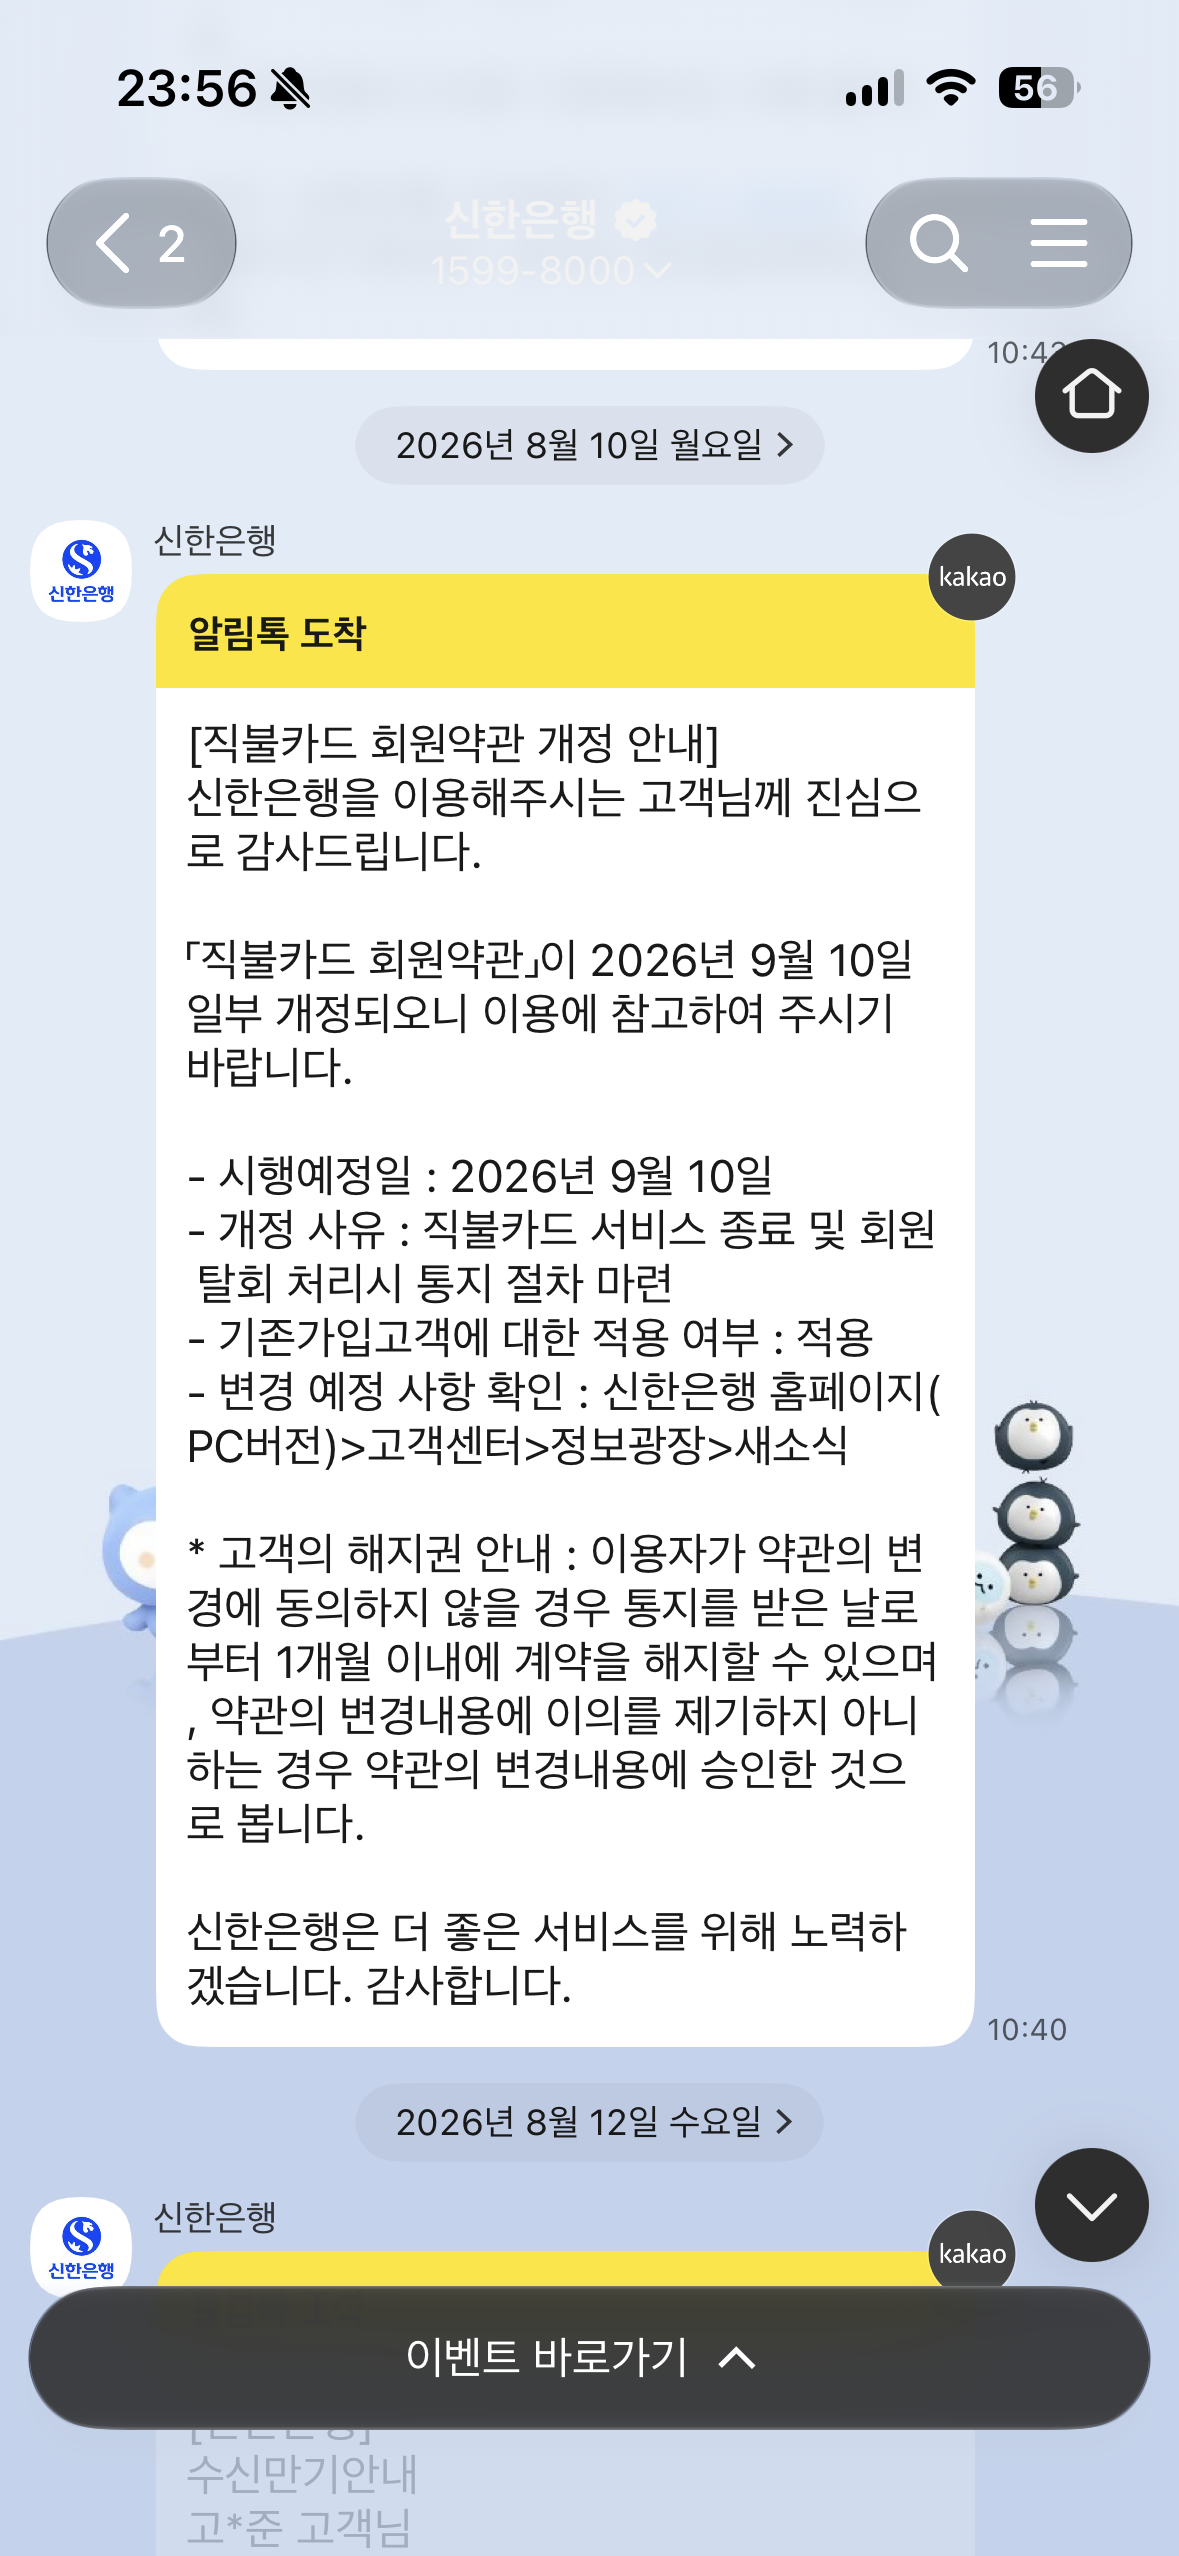
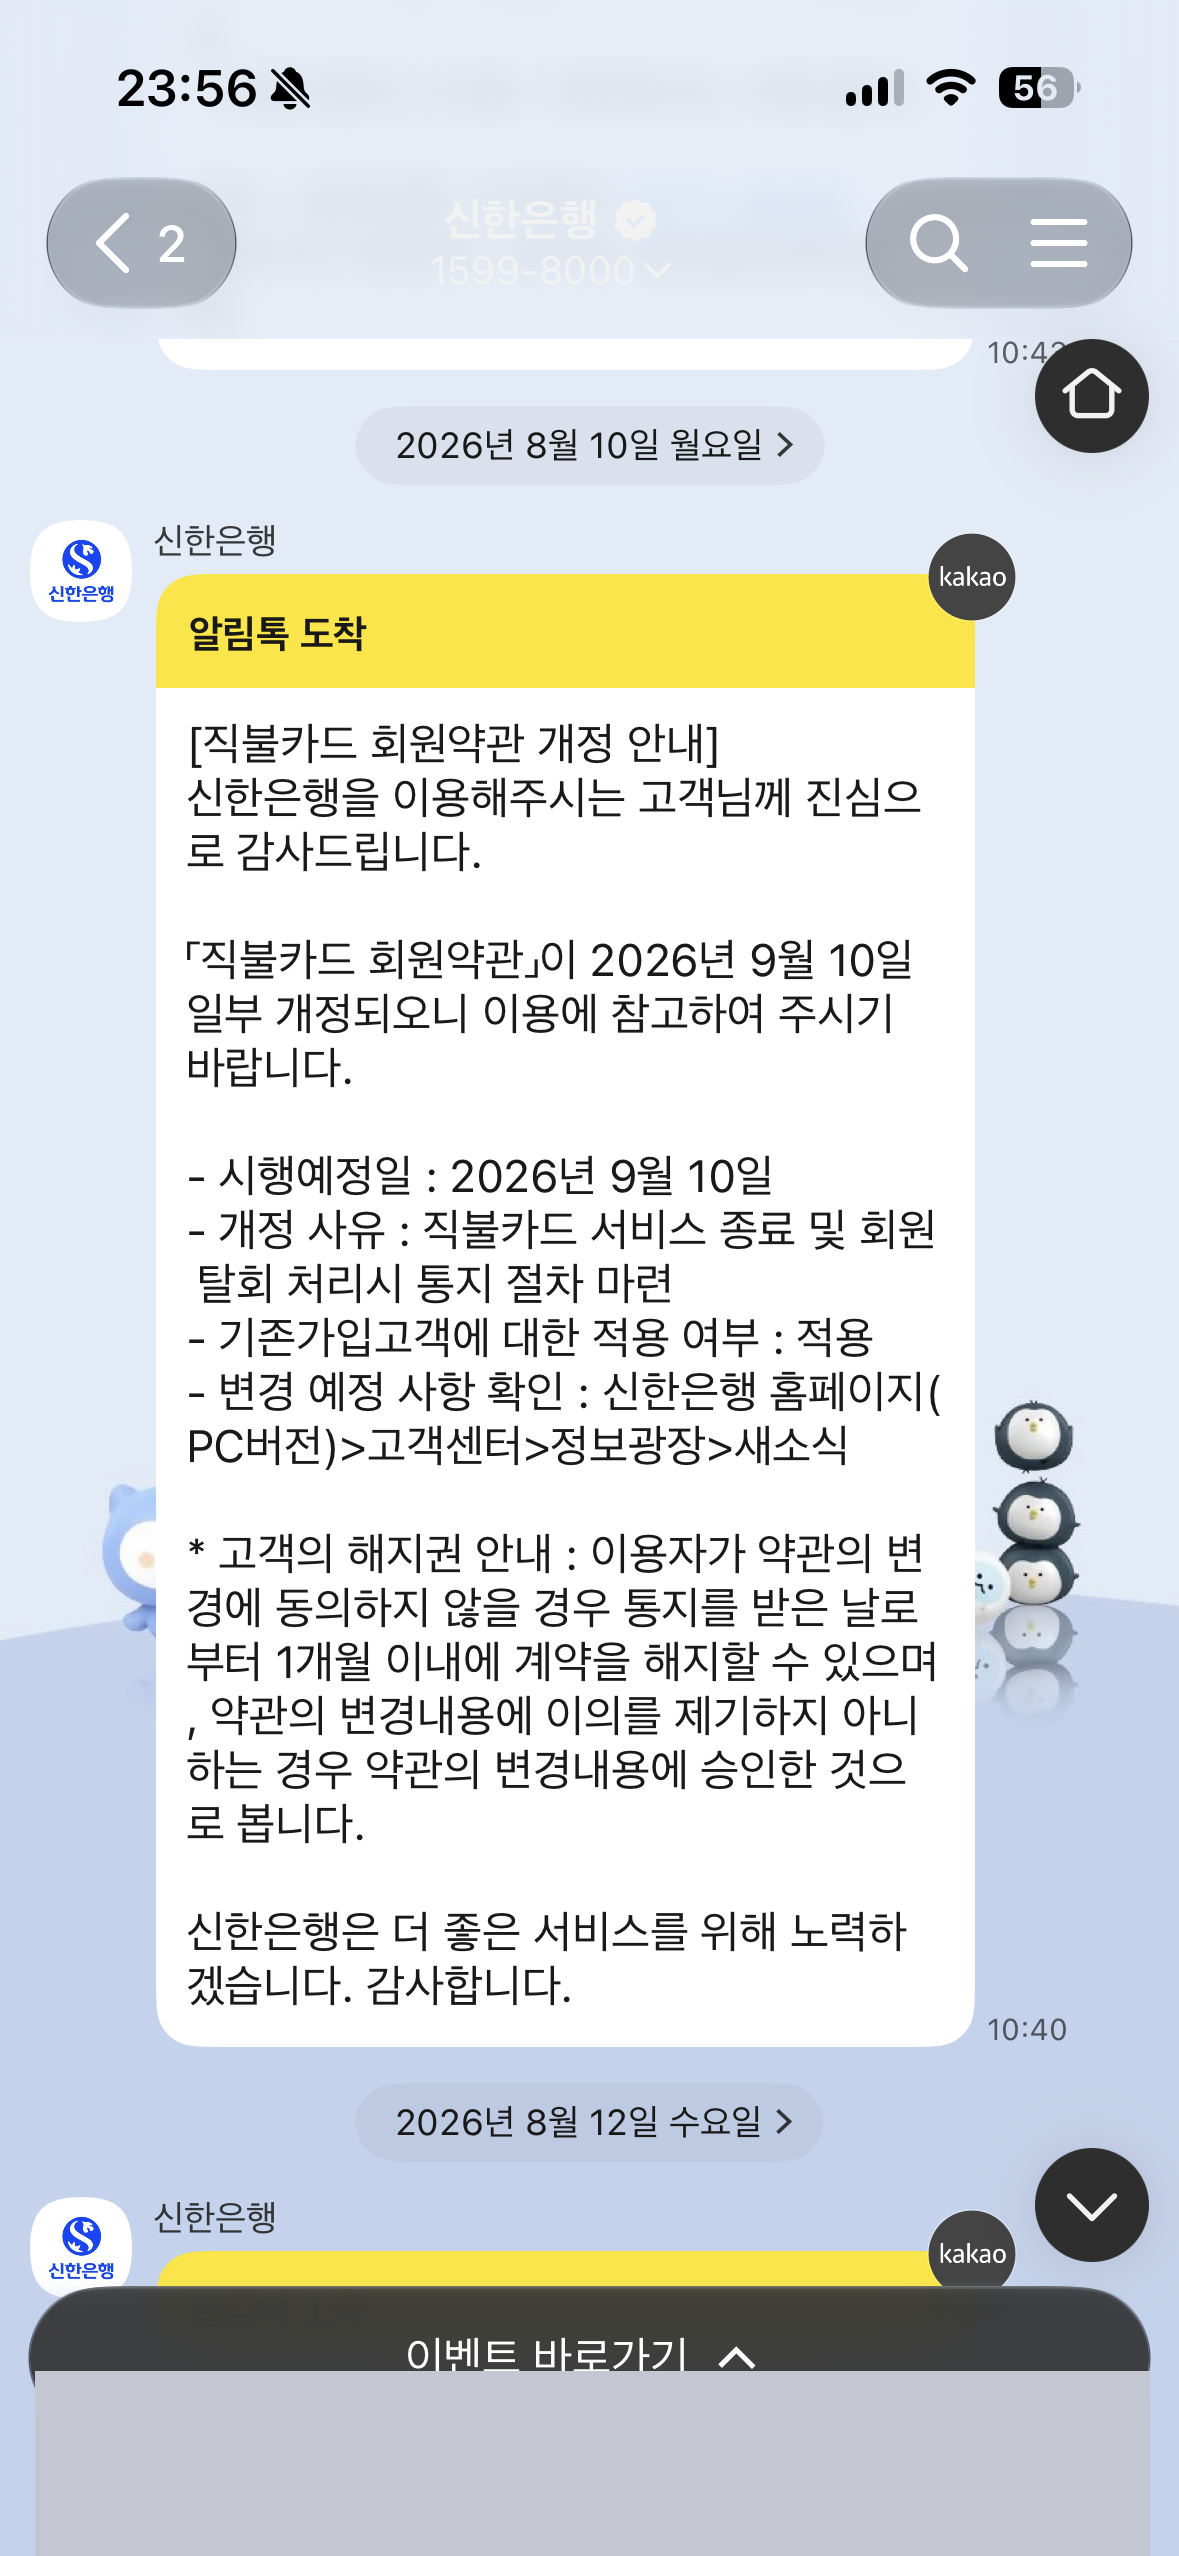
캡처 개인정보 점검 완료 + 카톡 하단 미리보기 마스킹
- 00-카카오톡_신한은행톡방: 하단 미리보기 영역(수신만기안내·고객명) 마스킹
- 전 캡처 22장 점검 — 01~06(16장)·07(3장)은 개인정보 없음 확인
- 04·06의 타사 실명 로고는 AS-IS 기록이라 유지, 시안·발표는 가명만 쓰도록 인벤토리에 명시

Changed region(s): [[0.0305, 0.9272, 0.9771, 1.0]]

diff --git a/01_as-is/screen-inventory.md b/01_as-is/screen-inventory.md
@@ -1,5 +1,8 @@
 # AS-IS 화면 인벤토리 (보험 탭)
 
+> **개인정보 점검 (2026-08-18 완료)** — 전 캡처 22장 확인. 마스킹한 것: `00_메인홈`(이름·잔액·카드 이용금액) · `00-슈퍼쏠알림`(금액·이름·계좌번호) · `00-카카오톡_신한은행톡방`(하단 미리보기). **01~06 16장과 07 3장은 개인정보 없음** — 상품 목록·카테고리·상세 화면뿐. 원본은 레포 밖에 백업.
+> ⚠ 04·06 캡처에는 **타사 실명 로고**(하나생명·라이나생명·ABL·DB생명·흥국생명·KB손해보험)가 있다. AS-IS 기록이라 그대로 두지만, **시안·발표 이미지에는 가명(A생명~F손해보험)만 쓴다** (mock-data §0).
+>
 > 2026-08-17 캡처 16장 분류 — 사용자 확인 완료. 기기: iPhone (1179×2556 = 393×852pt @3x). 범위 A+B. AS-IS 와이어프레임 Figma 노드: `figma-links.md` 참고 (01→23:58, 02→24:143, 02-1→25:307, 03→25:403, 03-1→26:526, 04→26:626, 05→27:680, 06→27:729).
 
 ## 핵심 발견: "보험"은 진입점이 2개
@@ -12,7 +15,7 @@
 
 | # | 화면 | 파일 (원본) | 구조 요약 | 주요 컴포넌트 | 관찰 메모 (가설, R-xx는 problems.md) |
 |---|---|---|---|---|---|
-| 00-K | **카카오톡 신한은행 알림톡방** (형태 참고용) | `00-카카오톡_신한은행톡방.PNG` | 상태바 → pill 헤더(뒤로+안읽음 수 / 채널명+대표번호 / 검색+메뉴) → 날짜 구분 pill → 프로필 원형 + 발신자명 + **노란 "알림톡 도착" 바가 얹힌 버블** + kakao 뱃지 → 버블 우하단 시각 → 하단 "이벤트 바로가기" pill | 알림톡 버블(상단 바 + 본문), pill 헤더, 날짜 구분 pill | **보험 화면이 아니라 알림톡 형태 레퍼런스.** S5-B가 이 구조를 따름. 와이어프레임은 회색조라 노란 바를 회색으로 대체 |
+| 00-K | **카카오톡 신한은행 알림톡방** (형태 참고용) | `00-카카오톡_신한은행톡방.PNG` (하단 미리보기 영역 마스킹 완료) | 상태바 → pill 헤더(뒤로+안읽음 수 / 채널명+대표번호 / 검색+메뉴) → 날짜 구분 pill → 프로필 원형 + 발신자명 + **노란 "알림톡 도착" 바가 얹힌 버블** + kakao 뱃지 → 버블 우하단 시각 → 하단 "이벤트 바로가기" pill | 알림톡 버블(상단 바 + 본문), pill 헤더, 날짜 구분 pill | **보험 화면이 아니라 알림톡 형태 레퍼런스.** S5-B가 이 구조를 따름. 와이어프레임은 회색조라 노란 바를 회색으로 대체 |
 | 00-N | **잠금화면 슈퍼SOL 푸시 알림** (형태 참고용) | `00-슈퍼쏠알림.PNG` (iPhone 15 Pro · iOS 27, 개인정보 마스킹 완료) | 통신사 상태바 → 날짜 "8월 17일 (월)" → 큰 시계 → **알림 센터** 라벨 + X → 알림 카드(앱 아이콘 좌측 + 제목 + 본문 2줄 + 우상단 "N시간 전" + 우측 원형 액션) → 손전등·카메라 원형 버튼 → 홈 인디케이터 | 잠금화면 알림 카드(r24), 원형 유틸 버튼 | **보험 화면이 아니라 알림 형태 레퍼런스.** S5-C/S5-D 푸시 시안이 이 구조를 따름 |
 | 00 | **메인 홈 (앱 켜면 나오는 첫 화면)** | `00_메인홈.PNG` (개인정보 마스킹 완료) | 상태바 → 헤더(프로필+이름 / 우측 아이콘 4) → 계좌 카드(잔액·[이체]·만기 안내 배너) → 카드 카드(K-패스 체크·이용금액·인증서 로그인) → 땡겨요 카드(프로모션·쿠폰바로받기·이벤트/쿠폰/포인트) → 이벤트 카드(올영 상품권, 탭바에 가림) → **플로팅 하단 탭바(홈·금융·상품·혜택·주식)** | 프로필 헤더, 라운드 카드(r20), 인라인 CTA 버튼, 회색 배너, 3분할 링크, 플로팅 탭바 | 보험은 이 화면에 **한 번도 안 나온다** — 보험까지 가려면 [금융] 탭 → 보험 세그먼트. **아이디어 3의 팝업이 뜨는 자리가 바로 이 화면** |
 | 01 | **금융 › 보험 홈** | `01_금융-보험홈_a/b/c` (3432~3434) | 헤더(금융+아이콘2) → 세그먼트 탭(은행/카드/증권/보험) → 전문가 상담 배너 → 상품 추천 카드 → 이벤트 배너 → 보장에너지 카드 → 건강사전 카드(검색창) → 보험 추천 서비스 그리드(2열×6=12개) → 신한라이프 푸터 | 상단 탭바, 배너 카드(아이콘+텍스트), 추천 상품 카드(제목+부제+3D 일러스트), 섹션 카드(타이틀+chevron), 검색 인풋, 아이콘 그리드 메뉴, 하단 탭바 | 첫 화면이 광고성 배너·추천 위주고 정작 "내 보험 조회/청구" 같은 핵심 기능이 3스크롤 아래 그리드에 묻힘. 12개 메뉴가 우선순위 없이 나열. "보험 추천 서비스"라는 섹션명과 실제 내용(계약조회, 청구, 납입) 불일치. 건강사전이 홈에 두 번 등장 |
